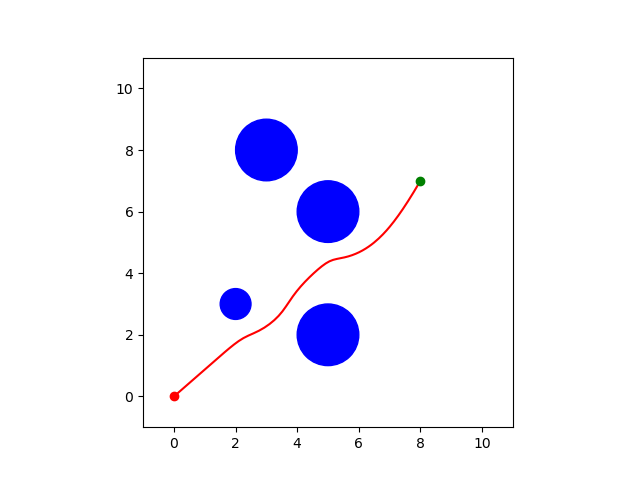
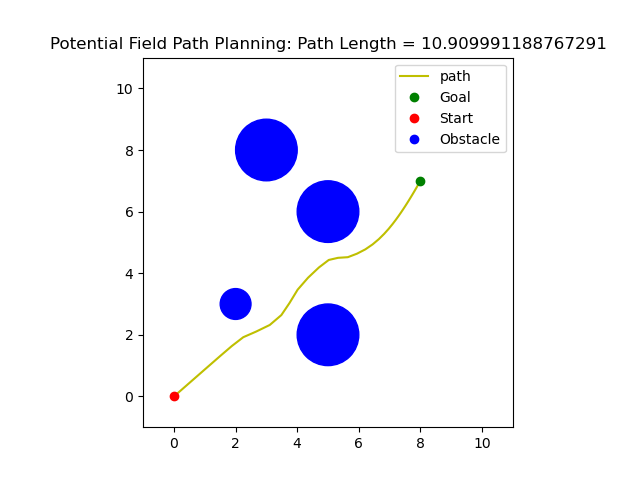
potential field tweaks

diff --git a/MidSem/potential_field.py b/MidSem/potential_field.py
@@ -4,14 +4,16 @@ import matplotlib.pyplot as plt
 
 def potential_field_planner(start, goal, obstacles, goal_threshold, obstacle_threshods, repulsive_gain, attractive_gain, step_size, eps):
     path = [start]
+    path_len = 0
     position = start
     forces = get_forces(position, goal, obstacles, goal_threshold, obstacle_threshods, repulsive_gain, attractive_gain)
     while forces[0] > eps and forces[1] > eps:
         position = gradient_descent_step(position, forces, step_size)
+        path_len += float(position.distance(path[-1]))
         path.append(position)
         forces = get_forces(position, goal, obstacles, goal_threshold, obstacle_threshods, repulsive_gain, attractive_gain)
         print(float(position.x), float(position.y))
-    return path
+    return path_len, path
 
 def gradient_descent_step(position, forces, step_size):
     new_position = [0, 0]
@@ -63,26 +65,31 @@ if __name__ == "__main__":
     # paramerters
     repulsive_gain = -1
     attractive_gain = 2
-    step_size = 0.02
+    step_size = 0.05
     eps = 0.01
     
-    path = potential_field_planner(start, goal, obstacles, goal_threshold, obstacle_threshods, repulsive_gain, attractive_gain, step_size, eps)
+    path_len, path = potential_field_planner(start, goal, obstacles, goal_threshold, obstacle_threshods, repulsive_gain, attractive_gain, step_size, eps)
     
-    print("Path length: ", path_length(path))
+    print("Path length: ", path_len)
 
     # visualize
     fig, ax = plt.subplots()
     ax.set_aspect('equal')
     ax.set_xlim(-1, 11)
     ax.set_ylim(-1, 11)
-    ax.plot([p[0] for p in path], [p[1] for p in path], 'r')
+    ax.plot([p[0] for p in path], [p[1] for p in path], 'y', label='path')
     # plot obstacles
     for obstacle in obstacles:
         if type(obstacle) is Circle:
             ax.add_artist(plt.Circle((obstacle.center.x, obstacle.center.y), obstacle.radius, color='b'))
         else:
             ax.add_artist(plt.Polygon([[v.x, v.y] for v in obstacle.vertices], color='b'))
-    ax.plot(goal.x, goal.y, 'go')
-    ax.plot(start[0], start[1], 'ro')
+    ax.plot(goal.x, goal.y, 'go', label='Goal')
+    ax.plot(start[0], start[1], 'ro', label='Start')
+    ax.plot([], [], 'bo', label='Obstacle')
+    ax.legend()
+    ax.set_title("Potential Field Path Planning: Path Length = " + str(path_len))
+    # save figure
+    plt.savefig('MidSem/plots/potential_field_scenario.png')
     plt.show()
 
